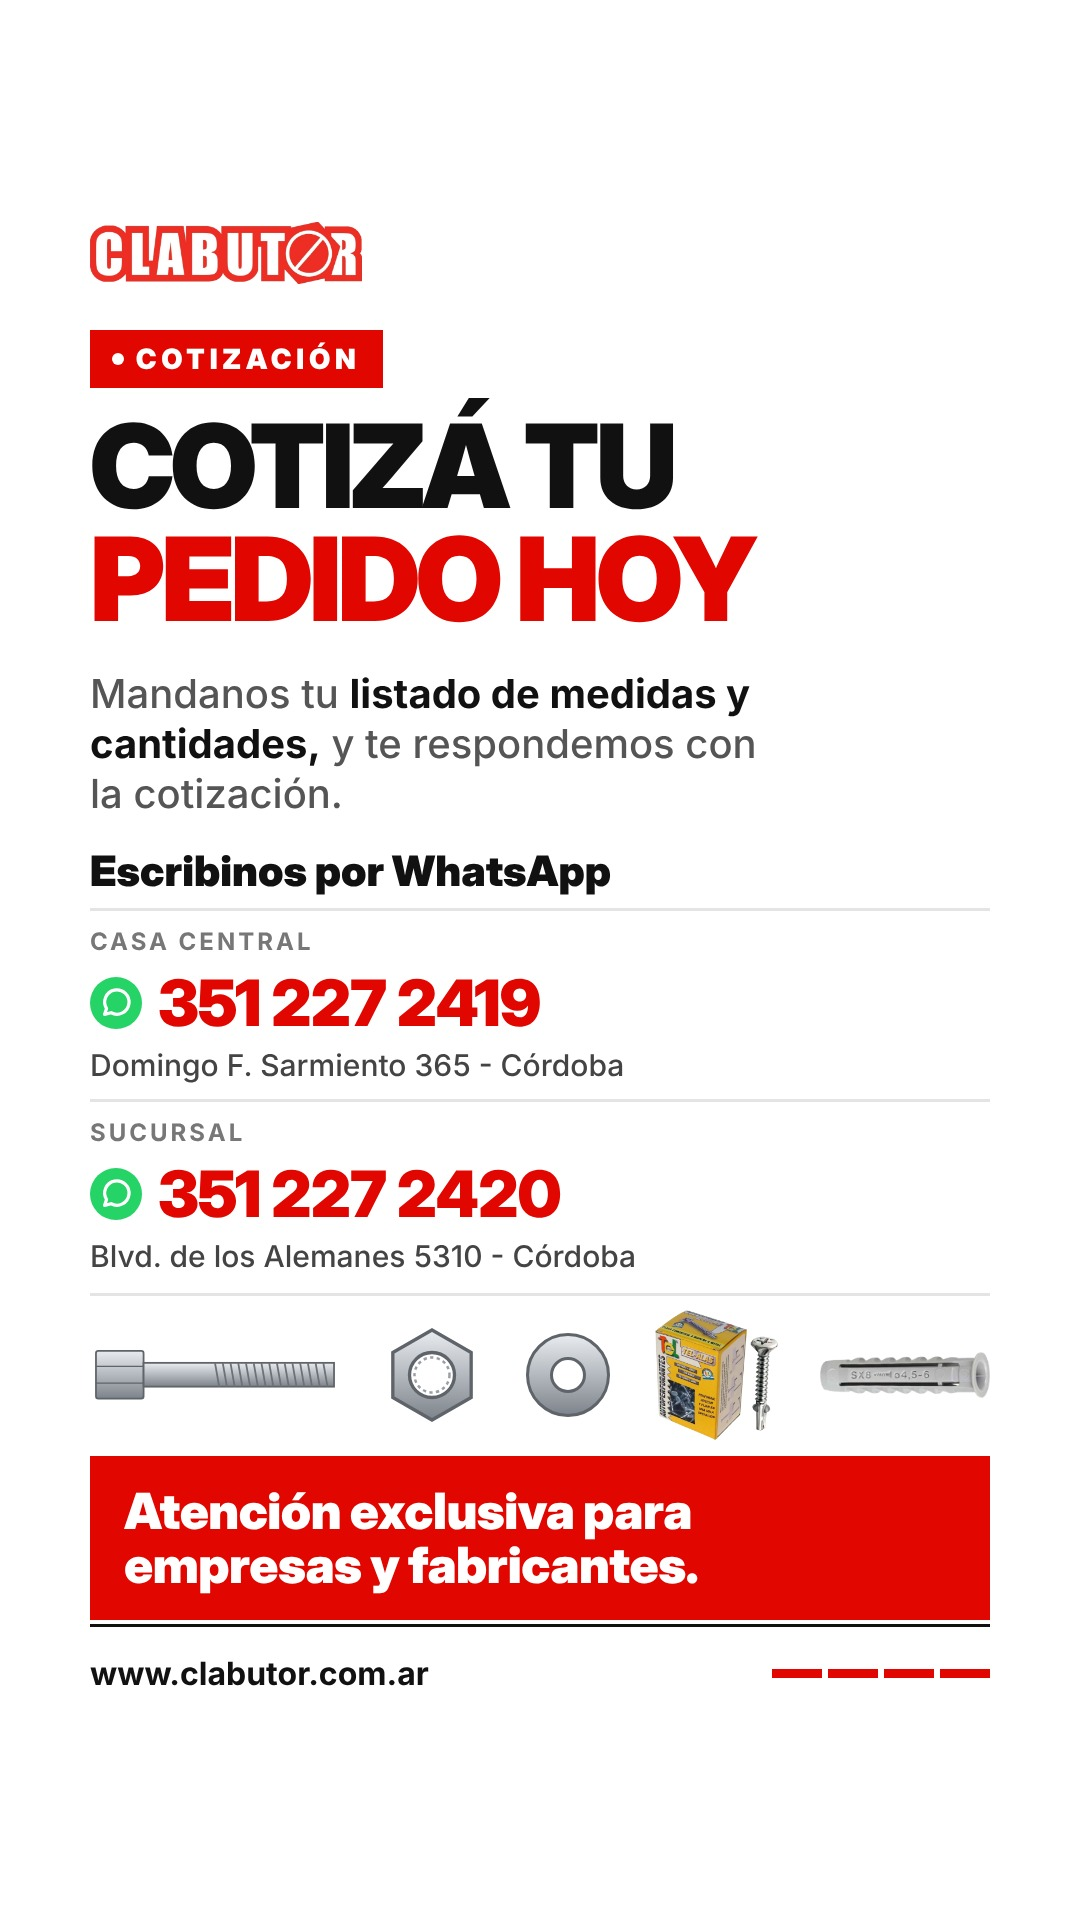
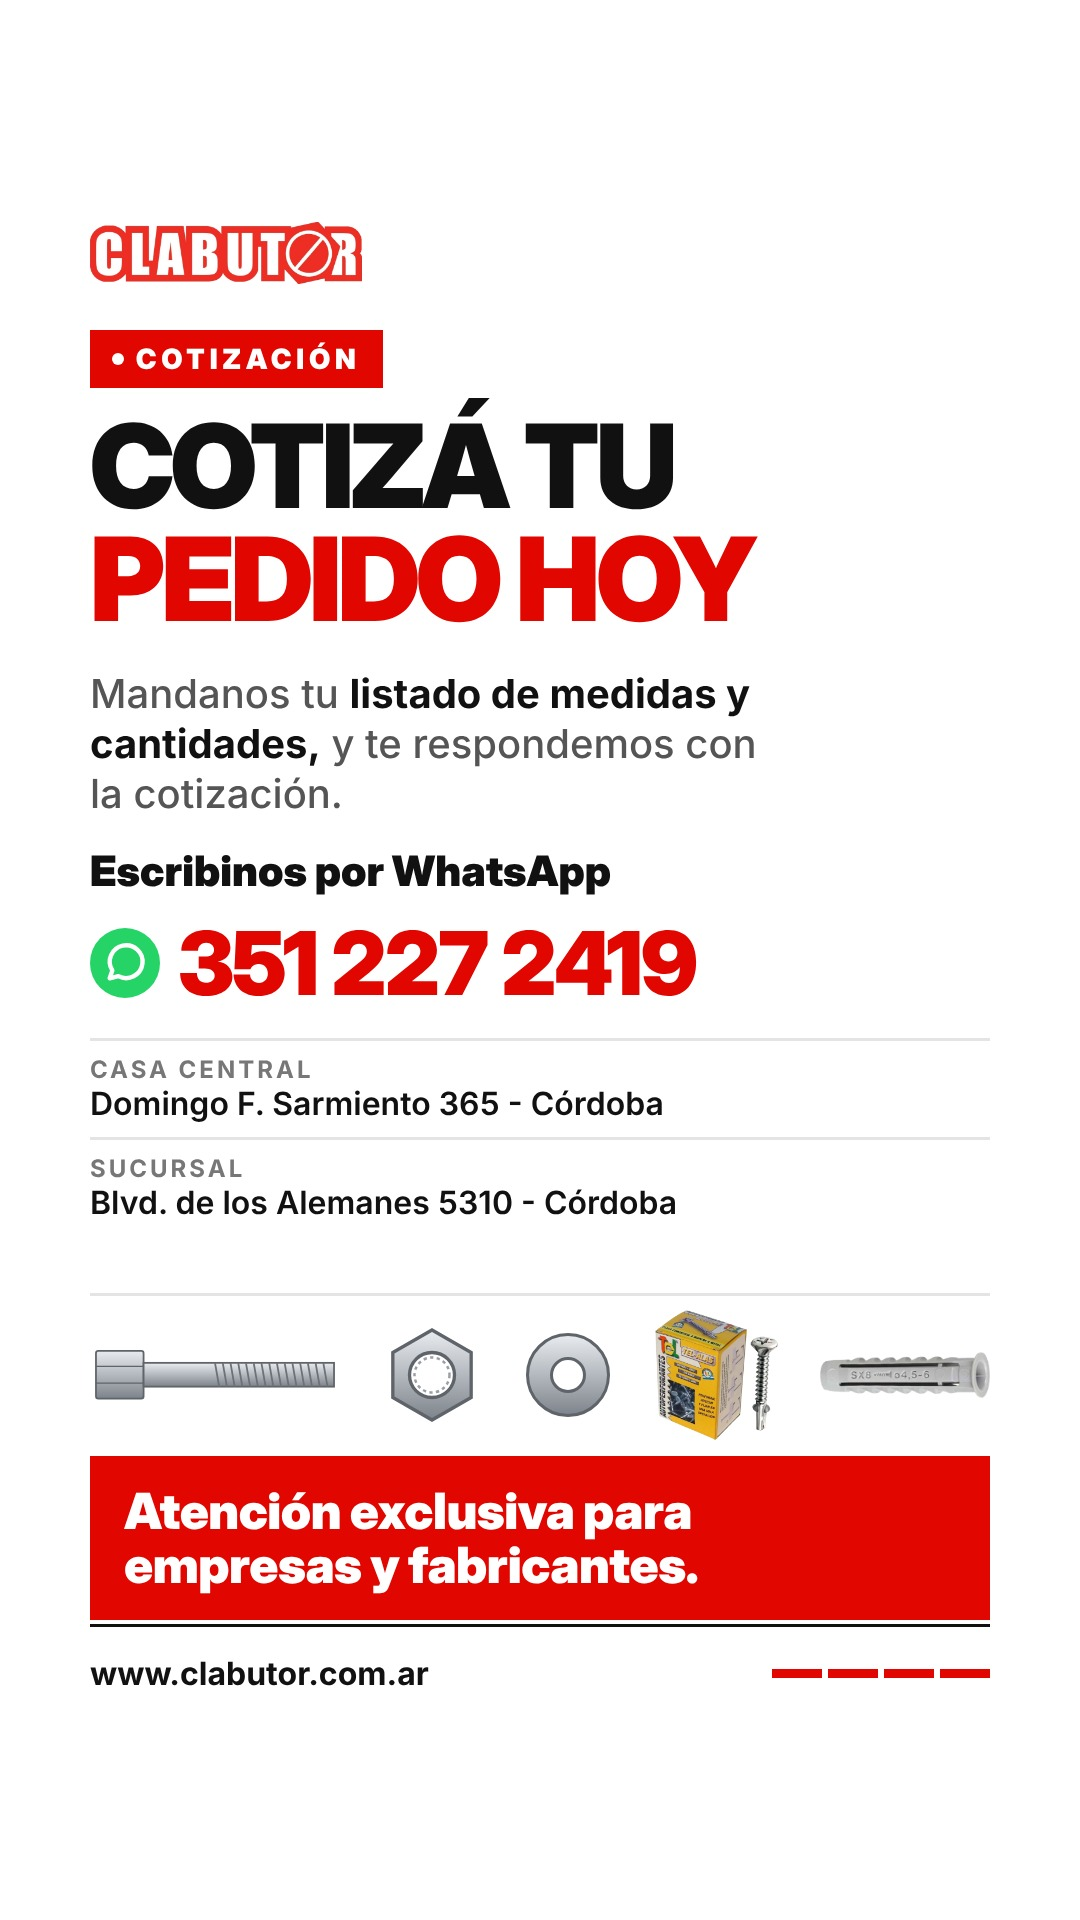
Contacto: un solo WhatsApp (351 227 2419); sucursal solo con ubicación
Claude-Session: https://claude.ai/code/session_01XbJLpPx7CCs1ipZpL6GiAh

Changed region(s): [[0.0611, 0.4688, 0.6417, 0.6562]]

diff --git a/disenos/posteos/historia-fijaciones.py b/disenos/posteos/historia-fijaciones.py
@@ -133,9 +133,12 @@ Para <b style="color:{NEGRO}">fábricas, metalúrgicas, constructoras,<br>taller
 <p class="bajada" style="font-size:40px">Mandanos tu <b>listado de medidas y cantidades,</b> y te respondemos con la cotización.</p>
 <div style="display:flex;gap:30px;align-items:flex-start;margin-top:26px">
   <div style="flex:1">
-    <div style="font-family:Titular;font-weight:900;font-size:42px;margin-bottom:12px">Escribinos por WhatsApp</div>
-    {sede("CASA CENTRAL", "351 227 2419", "Domingo F. Sarmiento 365 - Córdoba")}
-    {sede("SUCURSAL", "351 227 2420", "Blvd. de los Alemanes 5310 - Córdoba")}
+    <div style="font-family:Titular;font-weight:900;font-size:42px">Escribinos por WhatsApp</div>
+    <div style="display:flex;align-items:center;gap:18px;margin-top:14px">{wa(70)}<span style="font-family:Titular;font-weight:900;font-size:88px;letter-spacing:-2px;color:{ROJO}">351 227 2419</span></div>
+    <div style="margin-top:22px;border-top:3px solid #E4E4E4">
+      <div style="padding:14px 0;border-bottom:3px solid #E4E4E4"><span style="font-weight:700;font-size:24px;letter-spacing:3px;color:#777">CASA CENTRAL</span><br><span style="font-weight:600;font-size:32px">Domingo F. Sarmiento 365 - Córdoba</span></div>
+      <div style="padding:14px 0"><span style="font-weight:700;font-size:24px;letter-spacing:3px;color:#777">SUCURSAL</span><br><span style="font-weight:600;font-size:32px">Blvd. de los Alemanes 5310 - Córdoba</span></div>
+    </div>
   </div>
 </div>
 <div style="position:absolute;left:0;right:0;bottom:180px;display:flex;align-items:center;justify-content:space-between;padding-top:14px;border-top:3px solid #E4E4E4">{bulon(250)}{tuerca(100)}{arandela(90)}{foto("15108032TELEST", "height:130px")}{foto("104070008", "width:170px")}</div>

diff --git a/disenos/REGLAS.md b/disenos/REGLAS.md
@@ -39,9 +39,10 @@
   Historias **informativas**: con barras, contando solo las informativas del set.
 
 ## Contacto (WhatsApp)
-- Siempre los dos números, sin guiones y separados por espacios, con la dirección si hay lugar:
-  - Casa central: 351 227 2419 · Domingo F. Sarmiento 365 - Córdoba
-  - Sucursal: 351 227 2420 · Blvd. de los Alemanes 5310 - Córdoba
+- Un solo WhatsApp en redes y copy: **351 227 2419** (es donde atienden), sin guiones y separado por espacios.
+- La sucursal se menciona solo con la ubicación (sin número):
+  - Casa central: Domingo F. Sarmiento 365 - Córdoba
+  - Sucursal: Blvd. de los Alemanes 5310 - Córdoba
 - En las placas, el producto tiene prioridad de tamaño sobre el bloque de contacto.
 
 ## Precios (productos FEMA con envío gratis)
